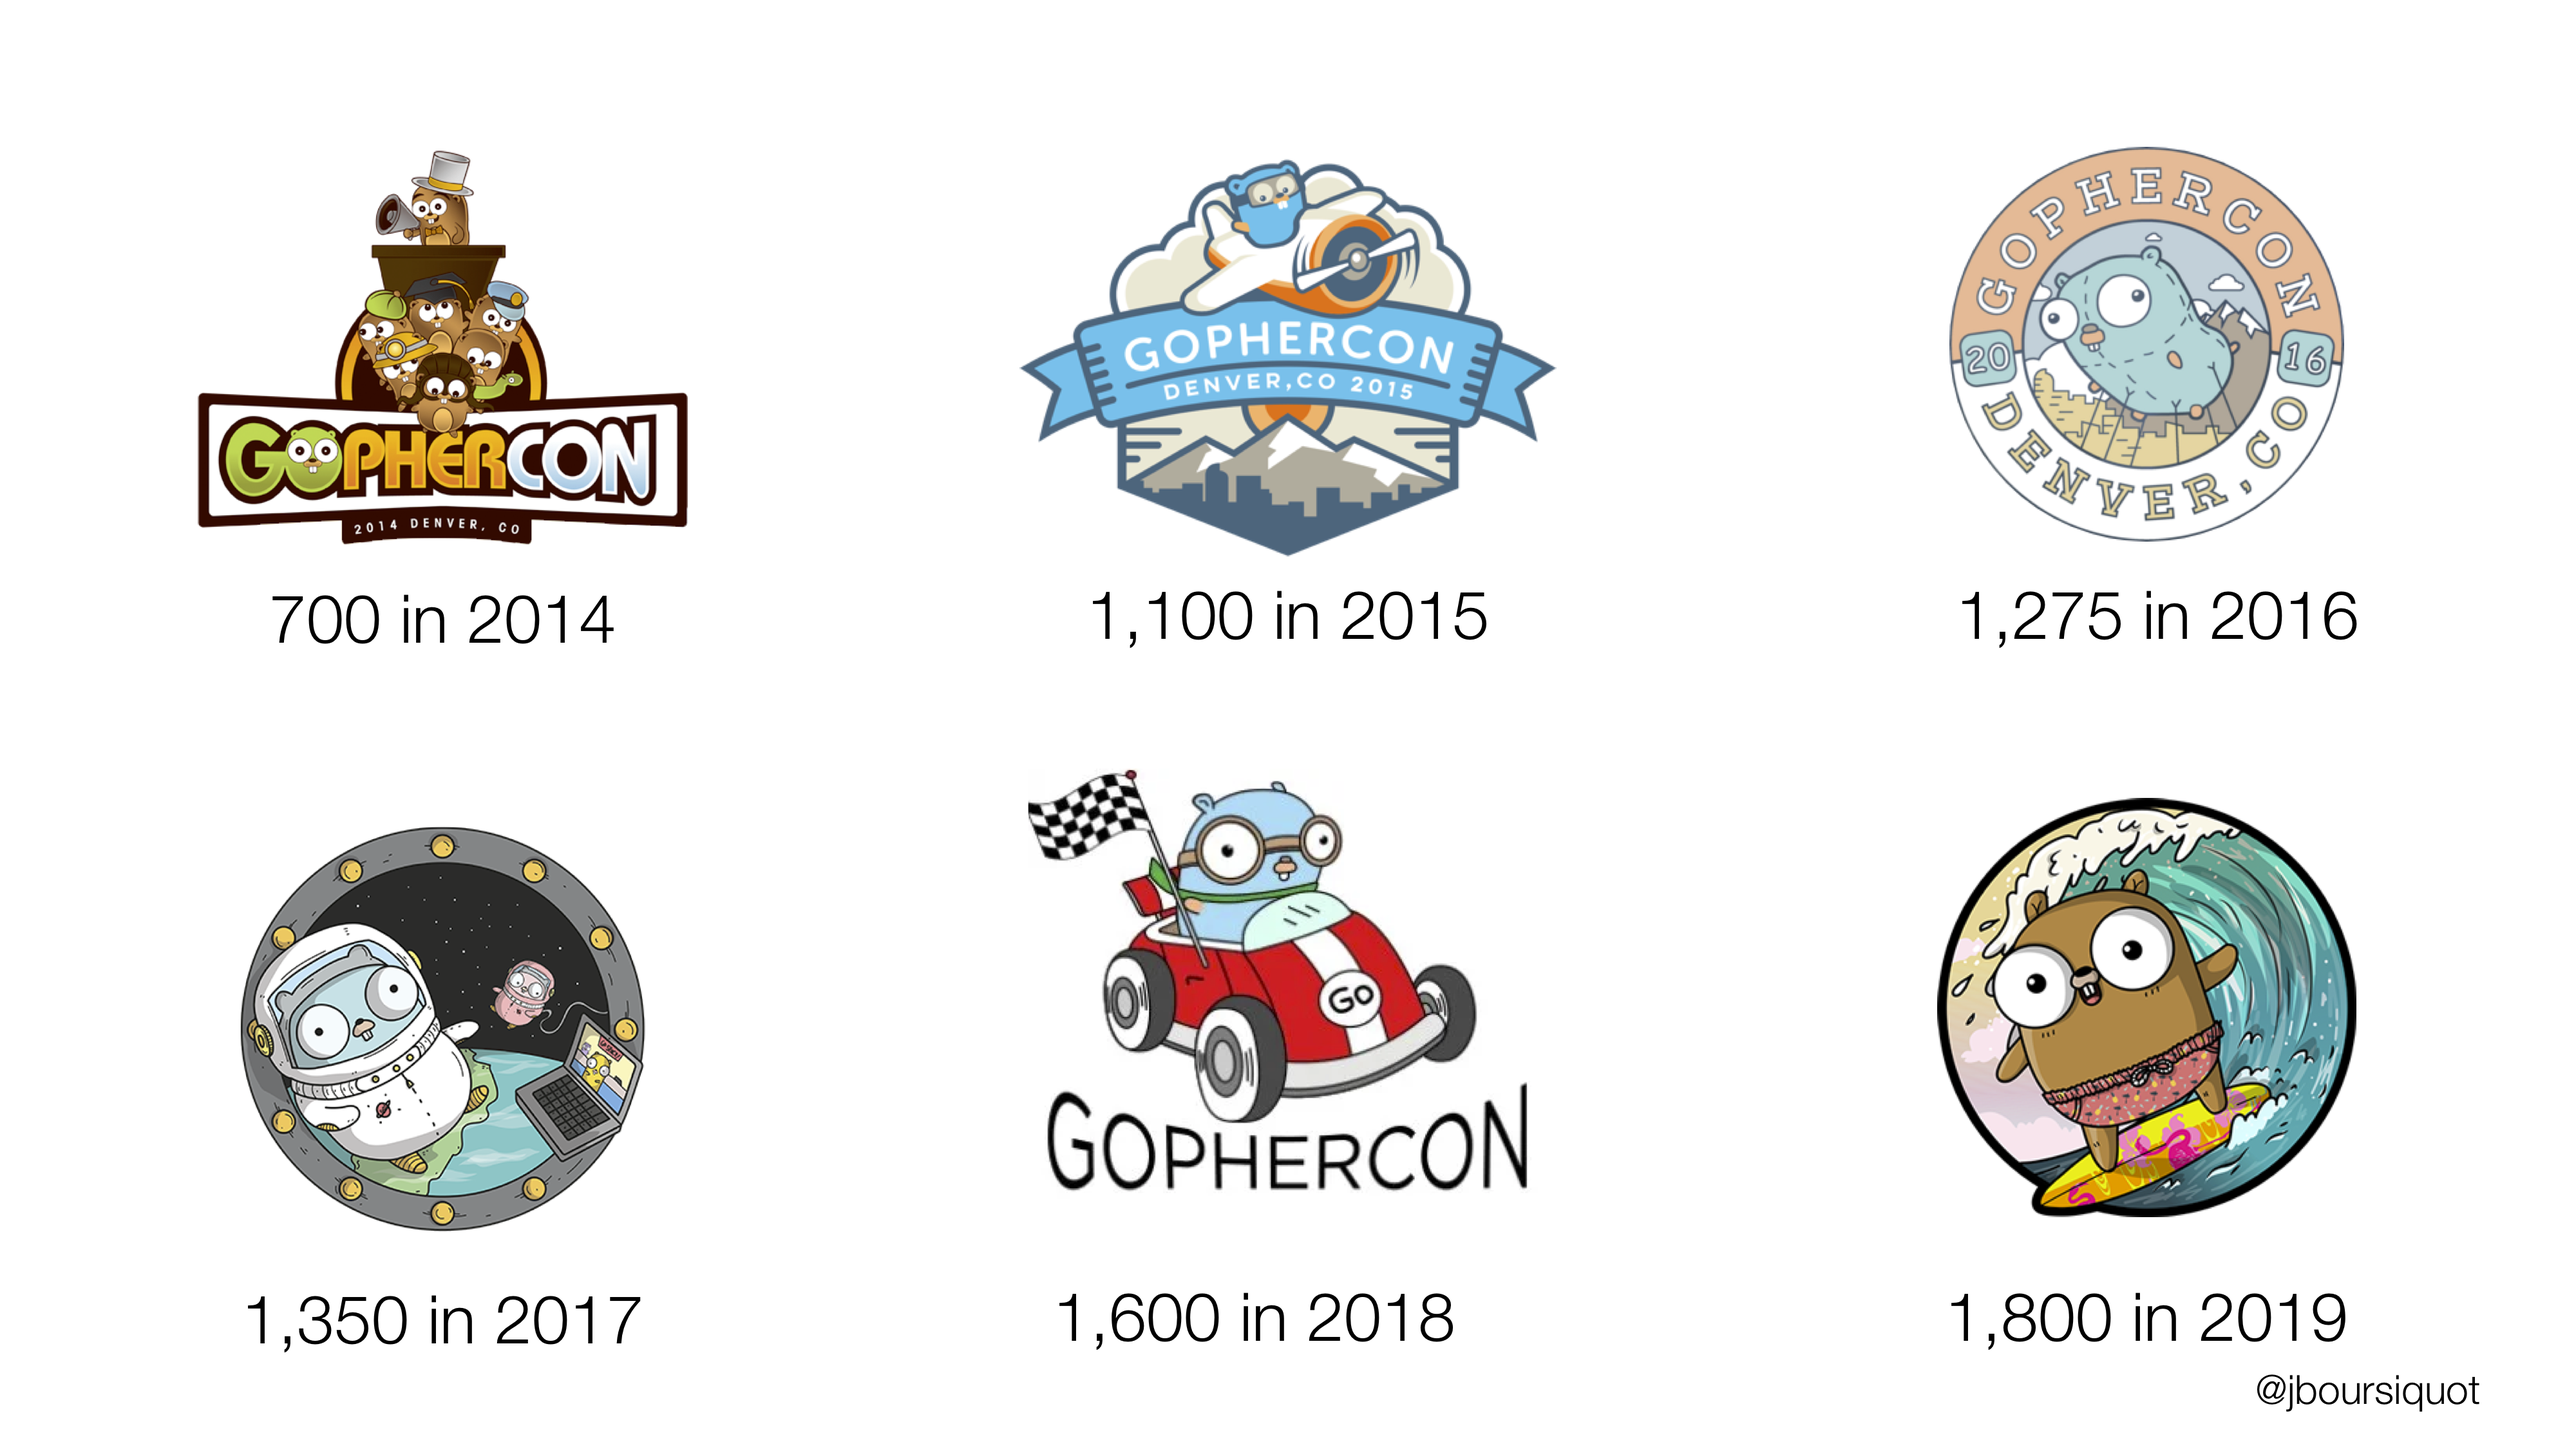
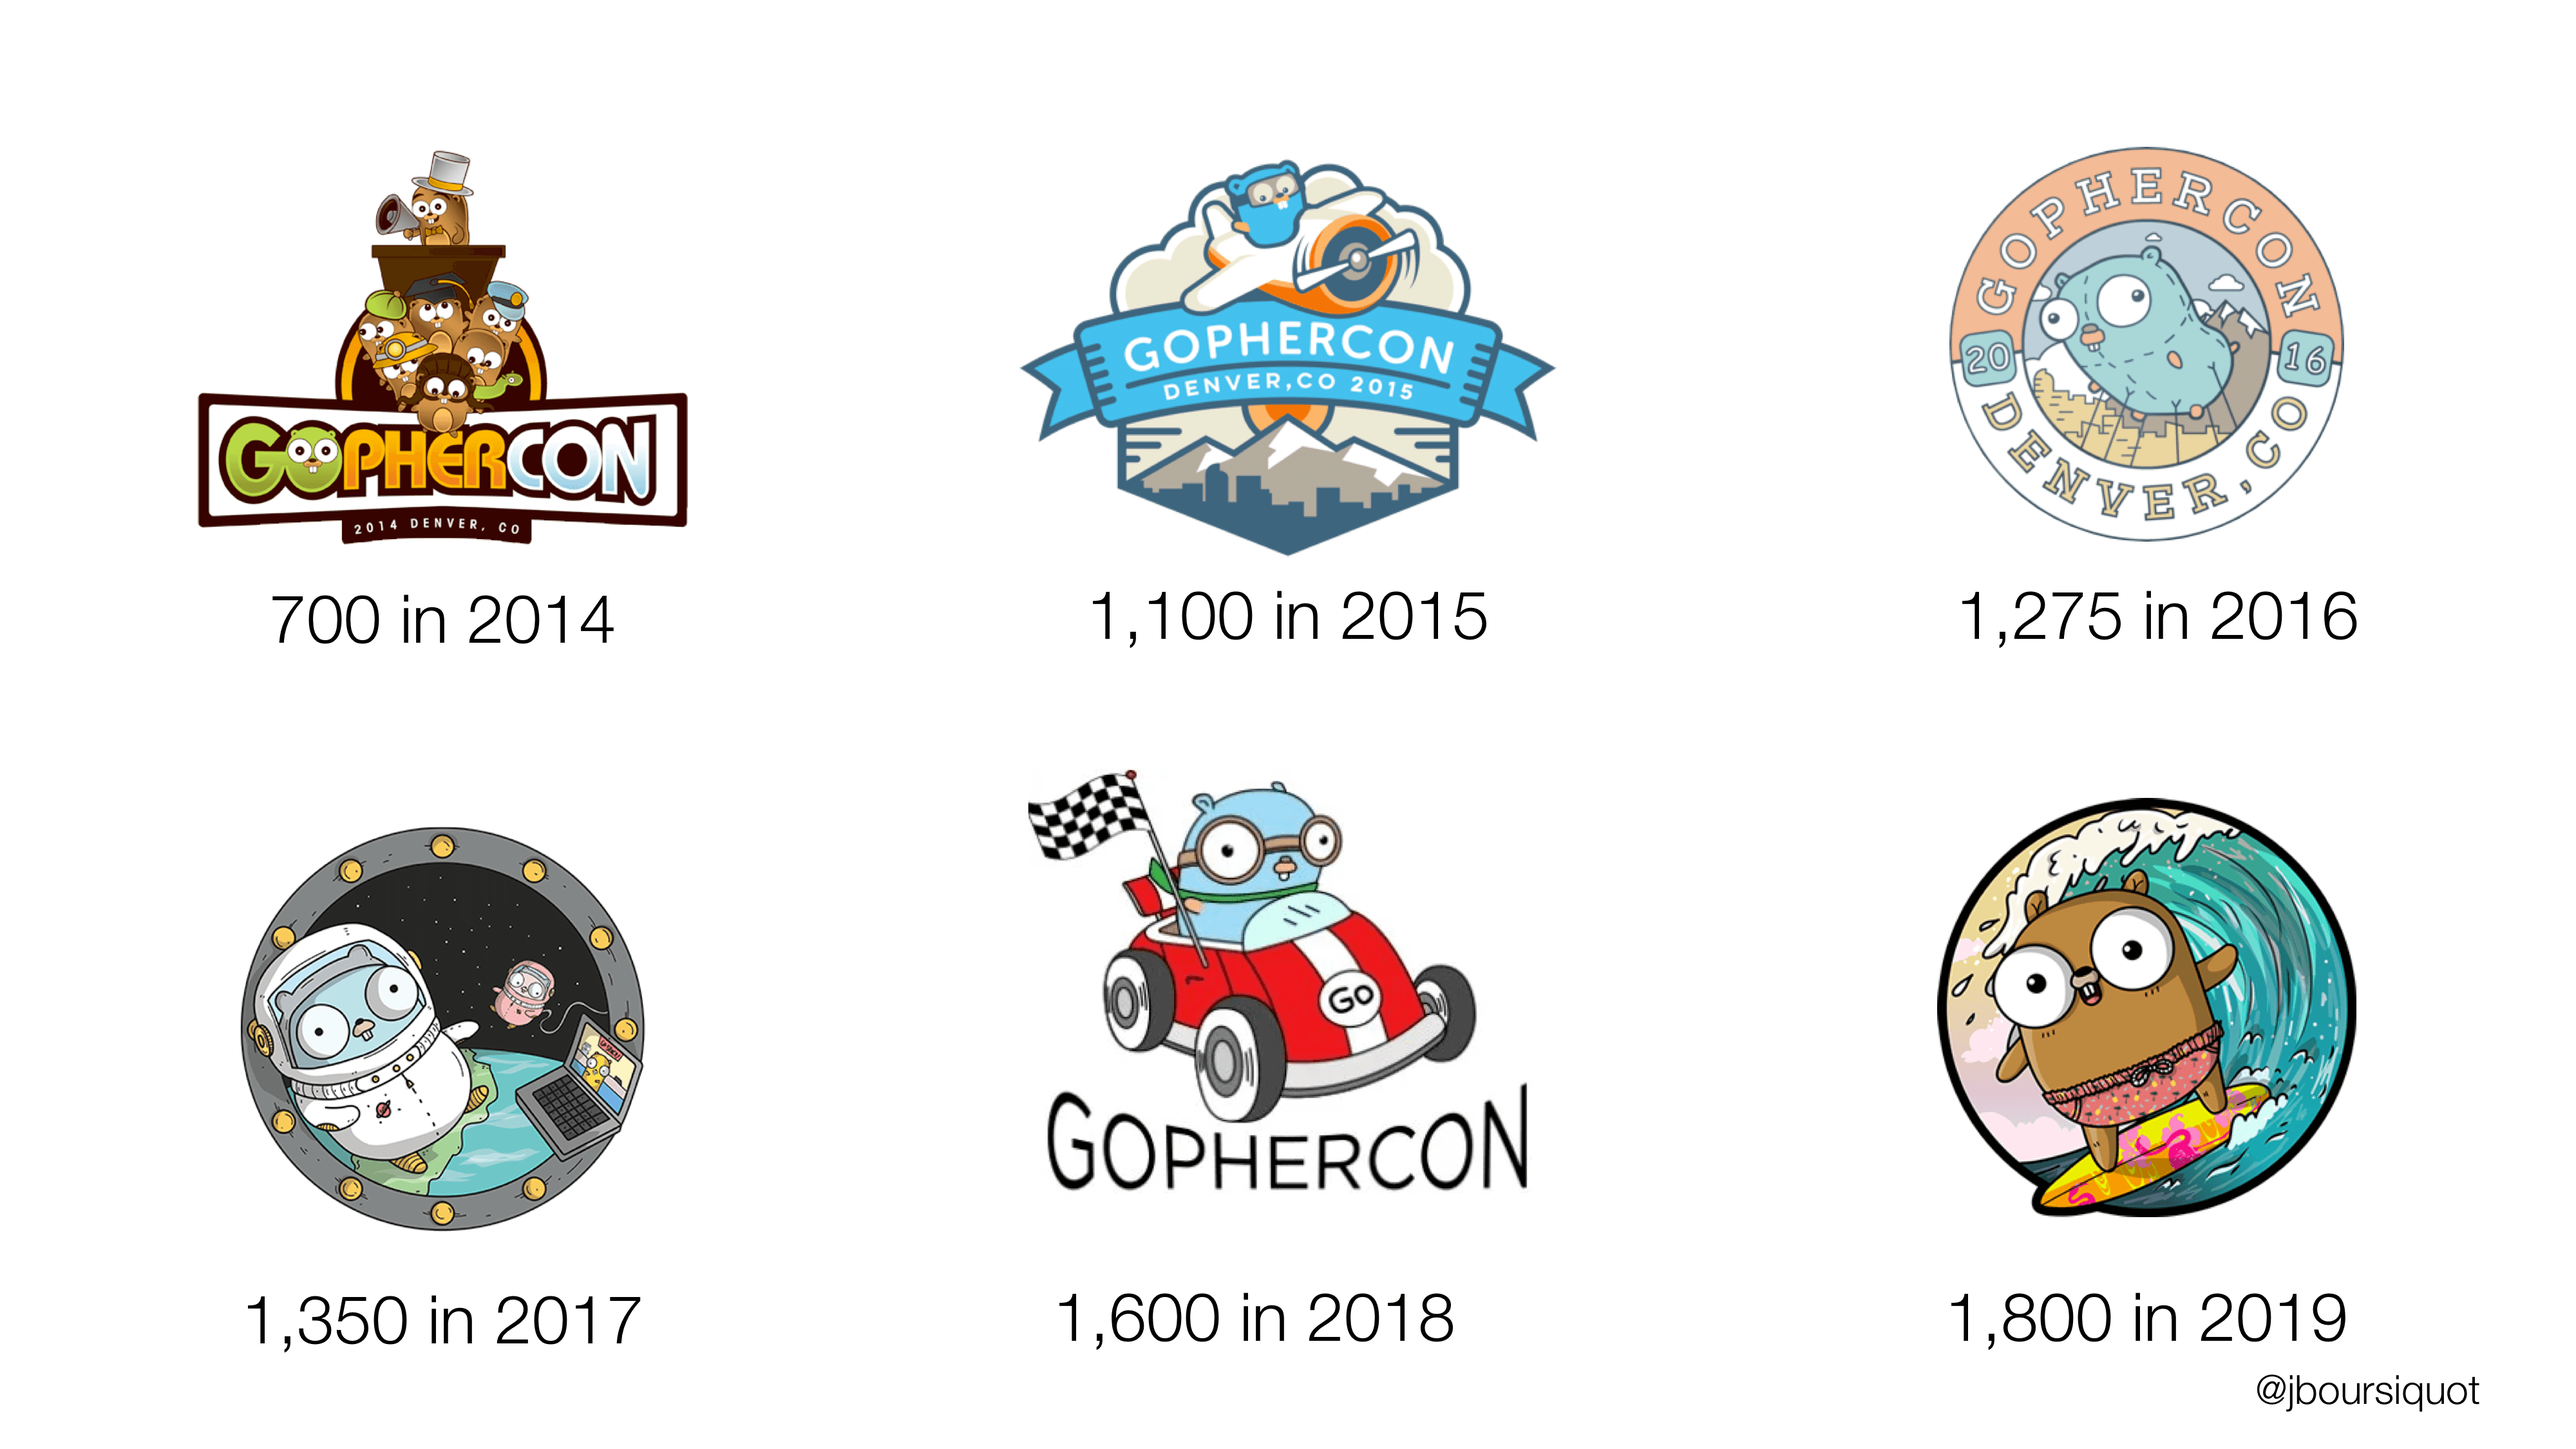
reduce image size in what-got-us-here-won-t-get-us-there

diff --git a/blogposts/gophercon-2019-what-got-us-here-won-t-get-us-there.md b/blogposts/gophercon-2019-what-got-us-here-won-t-get-us-there.md
@@ -52,13 +52,13 @@ Month after month we continue to see an increase in memberships, so this is a th
 
 And Go also gets you paid, we are on fire! So give yourselves a round of applause for that.
 
-![landscape](/gophercon-2019/gophercon-2019-8-landscape.png)
+![landscape](/gophercon-2019/gophercon-2019-8-landscape.jpg)
 
 I consider myself lucky to have a front-row seat since the beginning. We have something here, not just Go itself. This room, all over the world. We've got something here, it's about the people, not just the technology.
 
 When people say community some folks say it's technology, some say it's open-source contributions. But at the end it's human interaction, exchanging ideas, talk about cool stuff you're working on, talk about cool stuff that you would like to work on, that's what ties this bond that we have, that's what brings it into focus, almost.
 
-![places](/gophercon-2019/gophercon-2019-9-places.png)
+![places](/gophercon-2019/gophercon-2019-9-places.jpg)
 
 Community gives **safety**.
 
@@ -84,11 +84,11 @@ A few months ago I met a developer they come to me, they tell me "I follow you o
 
 It's a paradox, the more you give the more you get. Community doesn't give, it gives back. The more I've given to this comunity, it has given me back. So wax on, wax of, start giving of yourself before you start expecting from others.
 
-![people](/gophercon-2019/gophercon-2019-90-people.png)
+![people](/gophercon-2019/gophercon-2019-90-people.jpg)
 
 My experiences has been nothing short of amazing, we've grown together. I hope you care as much as i do care about you. Take a look at your neighbors, do you see what's missing? Or what we could use more of?
 
-![2019](/gophercon-2019/gophercon-2019-91-gophercon2019.png)
+![2019](/gophercon-2019/gophercon-2019-91-gophercon2019.jpg)
 
 Yesterday I gave myself a little challenge, I decided to go meet every person who looks like me, so I went throught the entire GopherCon, taking pictures with complete strangers thinking "this has potential, I want to meet every single person that looks like me at the conference".
 
